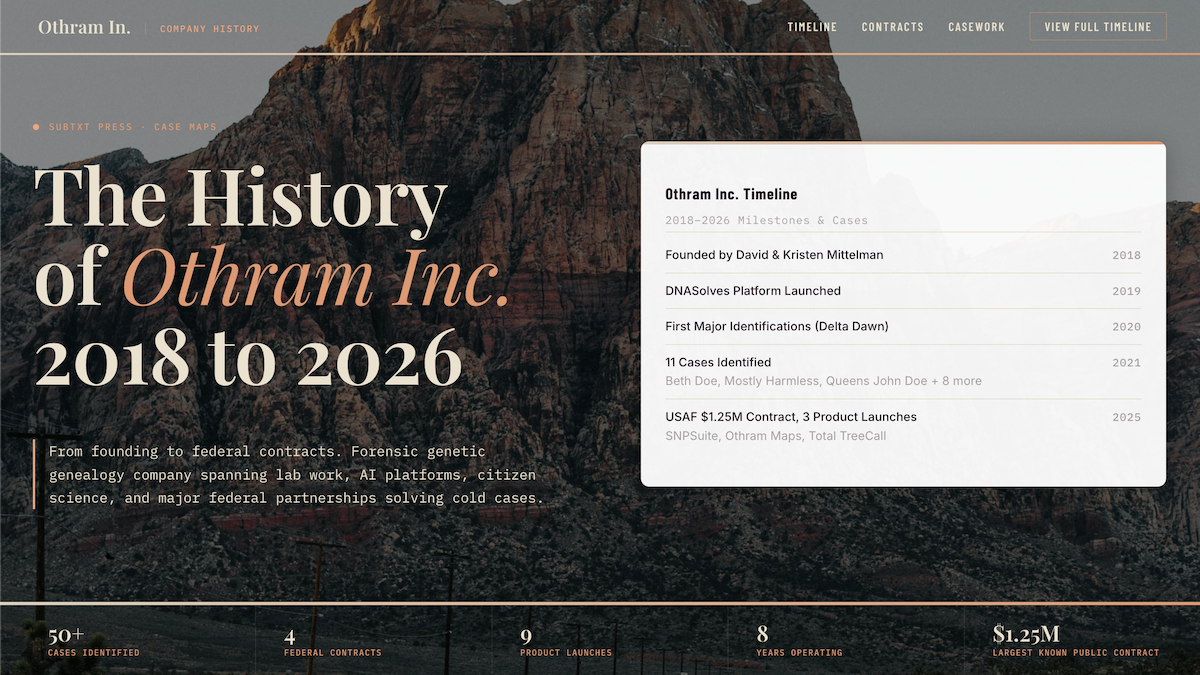
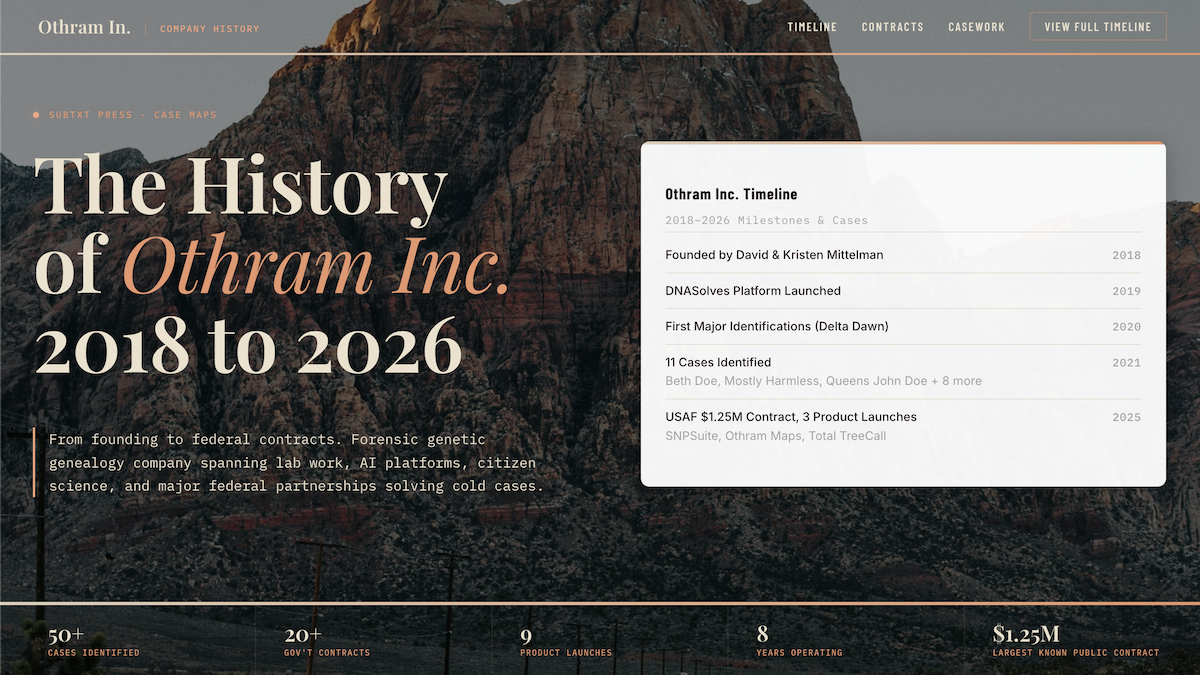
added contracts for OI

diff --git a/case/othram/timeline.html b/case/othram/timeline.html
@@ -754,6 +754,12 @@
   <div class="chapter" id="ch6">
     <div class="chapter-label">2023 · Closures, Partnerships & Federal Innovation Programs</div>
 
+    <div class="event pet key">
+      <div class="event-date">February 8, 2023</div>
+      <div class="event-title">Othram & Sorenson Forensics Partnership</div>
+      <div class="event-body">Develop unified workflow for ISO17025-accredited forensic DNA testing. Enables cutting-edge FGG tools for previously tested casework and combined workflow for current cases not yet entered into CODIS.</div>
+    </div>
+
     <div class="event both key">
       <div class="event-date">2023</div>
       <div class="event-title">U.S. Air Force SBIR Phase I Contract Awarded</div>
@@ -813,7 +819,19 @@
 
   <!-- ====== 2024 ====== -->
   <div class="chapter" id="ch7">
-    <div class="chapter-label">2024 · Major Federal Contract & Sustained Operations</div>
+    <div class="chapter-label">2024 · Accreditations, Partnerships & Major Federal Contract</div>
+
+    <div class="event pet key">
+      <div class="event-date">January 23, 2024</div>
+      <div class="event-title">Gene by Gene Partnership</div>
+      <div class="event-body">Gene by Gene selects Othram as exclusive partner for forensic genetic genealogy search and analysis. Combines Gene by Gene's genetic genealogy database for law enforcement with Othram's purpose-built forensic analysis tools. Force multiplier for investigations.</div>
+    </div>
+
+    <div class="event pet key">
+      <div class="event-date">July 12, 2024</div>
+      <div class="event-title">ISO/IEC 17025:2017 Accreditation by ANAB</div>
+      <div class="event-body">Othram's forensic DNA testing laboratory achieves accreditation by ANSI National Accreditation Board for massively parallel sequencing and forensic testing standards. Critical for forensic laboratory credibility.</div>
+    </div>
 
     <div class="event both key">
       <div class="event-date">June 4, 2024</div>
@@ -826,6 +844,12 @@
           </div>
         </details>
       </div>
+    </div>
+
+    <div class="event pet key">
+      <div class="event-date">September 23, 2024</div>
+      <div class="event-title">Othram & QIAGEN Collaboration</div>
+      <div class="event-body">Partnership to develop tools and standards ensuring maximum insight from forensic DNA profiles. Focus on stability, innovation, and improvement in forensic genetic genealogy. Strengthens industry infrastructure.</div>
     </div>
 
     <div class="event pet">
@@ -872,10 +896,10 @@
       </div>
     </div>
 
-    <div class="event pet">
+    <div class="event pet key">
       <div class="event-date">June 12, 2025</div>
-      <div class="event-title">Major Technology Expansion Announced</div>
-      <div class="event-body">Othram begins offering AI-powered forensic workflows to external labs and agencies worldwide. <span class="tag filing">EXPANSION</span></div>
+      <div class="event-title">Major Technology Expansion & Global Initiative</div>
+      <div class="event-body">Othram expands forensic technology offerings to strengthen infrastructure of justice. Deployable AI-powered software workflows, expanded commercial leadership, and global initiatives mark next phase in mission to deliver justice for everyone, everywhere. <span class="tag filing">EXPANSION</span></div>
     </div>
 
     <div class="event pet key">
@@ -907,9 +931,21 @@
 
   <!-- ====== 2026 ====== -->
   <div class="chapter" id="ch9">
-    <div class="chapter-label">2026 · Storytelling & Platform Evolution</div>
+    <div class="chapter-label">2026 · Accreditation, Partnerships & Storytelling</div>
 
     <div class="event pet key">
+      <div class="event-date">January 20, 2026</div>
+      <div class="event-title">ISO/IEC 17025:2017 Accreditation Scope Expansion</div>
+      <div class="event-body">Othram achieves expanded accreditation to include profile comparisons used in KinSNP® rapid relationship testing. Strengthens ability to perform validated SNP profile comparisons supporting rapid, privacy-preserving assessments of genetic relationships.</div>
+    </div>
+
+    <div class="event pet key">
+      <div class="event-date">March 31, 2026</div>
+      <div class="event-title">Othram & FamilyTreeDNA Collaboration</div>
+      <div class="event-body">Advanced relationship visualization and inference technologies to enhance FamilyTreeDNA user experience while maintaining strict privacy and user data control. Brings Othram's technology to mainstream genealogy community.</div>
+    </div>
+
+    <div class="event both key">
       <div class="event-date">April 2026</div>
       <div class="event-title">Othram Studios Launched</div>
       <div class="event-body">

diff --git a/case/othram/img/preview-img.html b/case/othram/img/preview-img.html
@@ -126,7 +126,7 @@
       flex-direction: column;
       position: relative;
       z-index: 5;
-      padding-top: 11%;
+      padding-top: 9%;
       margin-left: -15px;
     }
     .eyebrow-line {
@@ -379,8 +379,8 @@
         <div class="stat-label">Cases Identified</div>
       </div>
       <div class="stat">
-        <div class="stat-value">4</div>
-        <div class="stat-label">Federal Contracts</div>
+        <div class="stat-value">20+</div>
+        <div class="stat-label">Gov't Contracts</div>
       </div>
       <div class="stat">
         <div class="stat-value">9</div>
